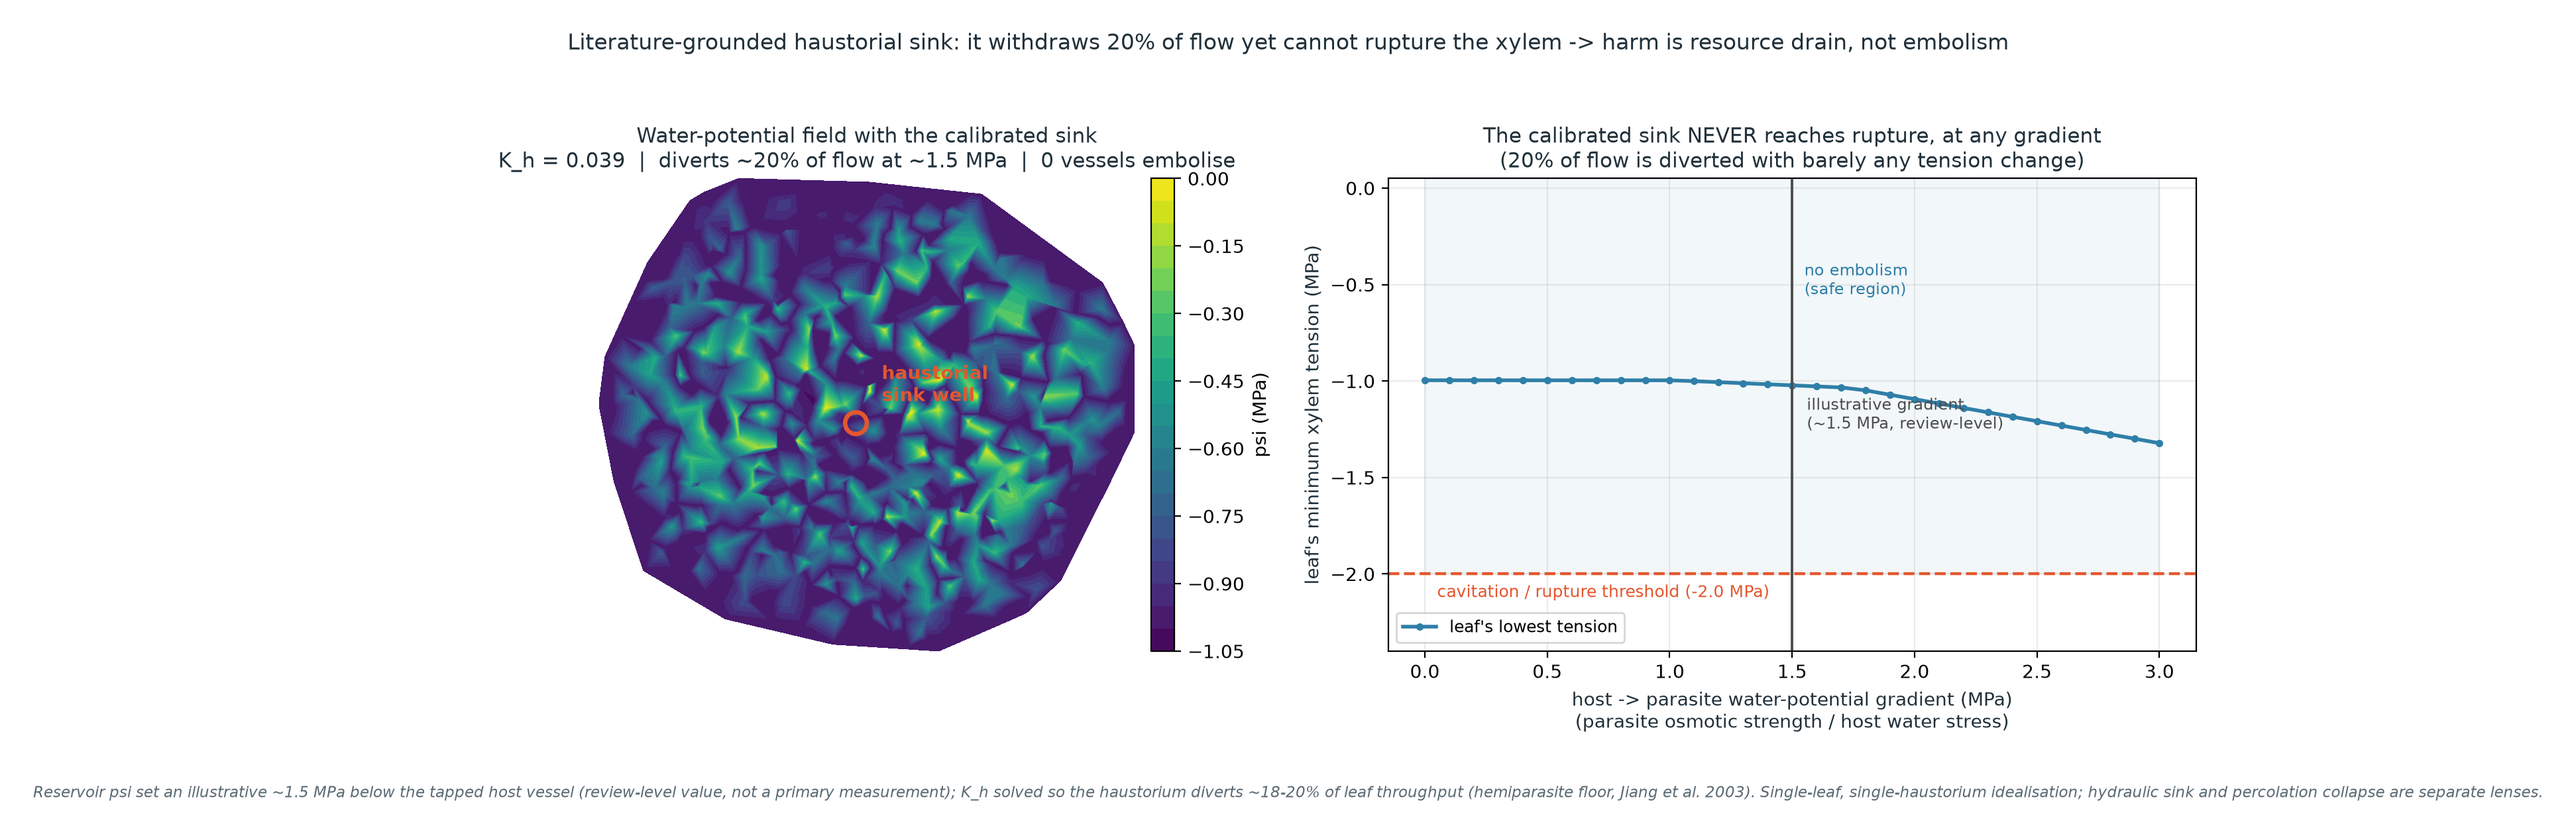
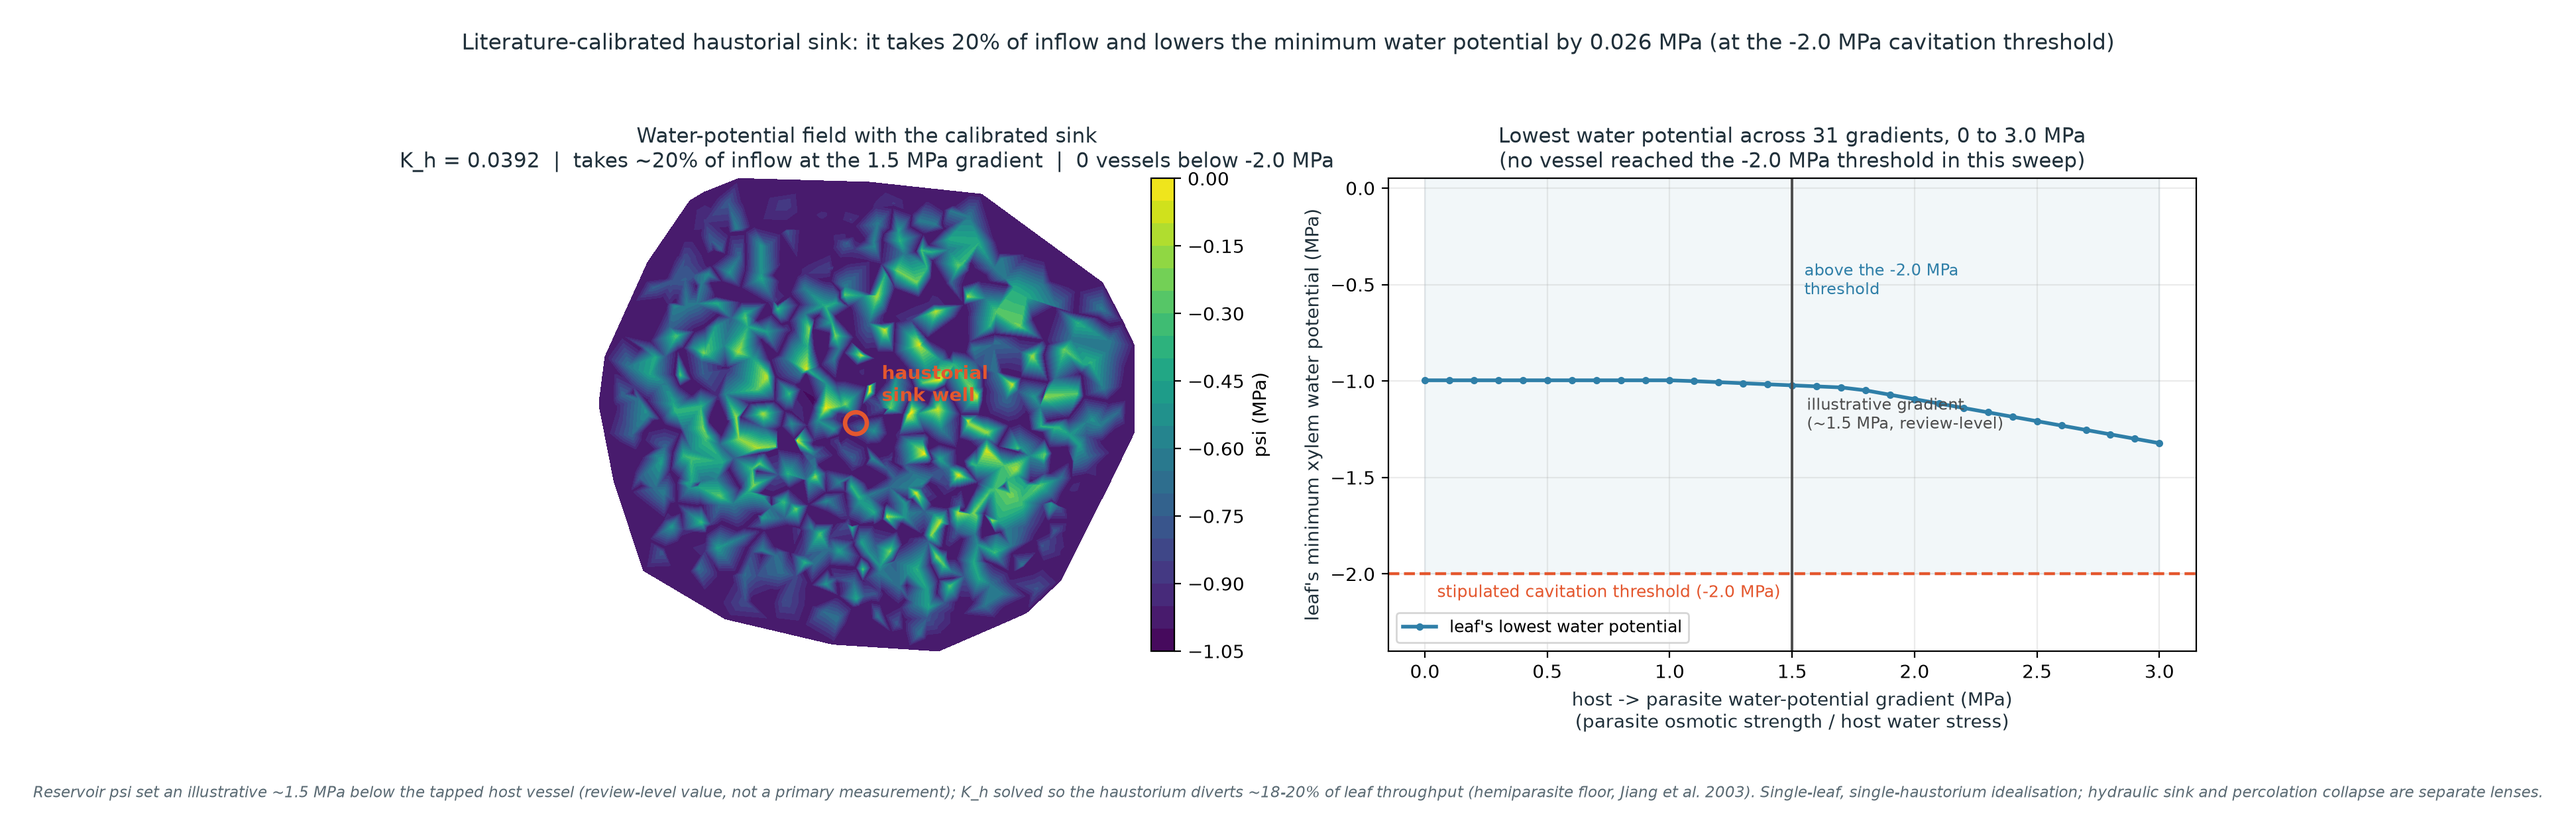
Make the sink figure conditional on the -2.0 MPa threshold; add the hero degree curve

diff --git a/scripts/make_sink_demo.py b/scripts/make_sink_demo.py
@@ -166,31 +166,32 @@ def main():
                 fontsize=10, fontweight="bold")
     a0.set_aspect("equal"); a0.axis("off")
     a0.set_title("Water-potential field with the calibrated sink\n"
-                 "K_h = %.3f  |  diverts ~20%% of flow at ~1.5 MPa  |  0 vessels embolise"
-                 % k_h, fontsize=11, color=INK)
+                 "K_h = %.4f  |  takes ~20%% of inflow at the 1.5 MPa gradient  |  "
+                 "0 vessels below -2.0 MPa" % k_h, fontsize=11, color=INK)
     cb = fig.colorbar(tcf, ax=a0, fraction=0.046, pad=0.02); cb.set_label("psi (MPa)")
 
-    a1.plot(grads, min_psi, "-o", ms=3, color=BLU, lw=2, label="leaf's lowest tension")
+    a1.plot(grads, min_psi, "-o", ms=3, color=BLU, lw=2, label="leaf's lowest water potential")
     a1.axhline(config.PSI_CAVITATION, color=ACC, ls="--", lw=1.6)
-    a1.text(0.05, config.PSI_CAVITATION - 0.12, "cavitation / rupture threshold (-2.0 MPa)",
+    a1.text(0.05, config.PSI_CAVITATION - 0.12, "stipulated cavitation threshold (-2.0 MPa)",
             color=ACC, fontsize=9)
     a1.axvline(GRADIENT_MPA, color="0.3", ls="-", lw=1.4)
     a1.text(GRADIENT_MPA + 0.06, min_psi[0] - 0.25,
             "illustrative gradient\n(~1.5 MPa, review-level)", fontsize=8.5, color="0.3")
     a1.fill_between(grads, config.PSI_CAVITATION, 0.05, color=BLU, alpha=0.06)
-    a1.text(1.55, -0.55, "no embolism\n(safe region)", fontsize=8.5, color=BLU)
+    a1.text(1.55, -0.55, "above the -2.0 MPa\nthreshold", fontsize=8.5, color=BLU)
     a1.set_ylim(config.PSI_CAVITATION - 0.4, 0.05)
     a1.set_xlabel("host -> parasite water-potential gradient (MPa)\n"
                   "(parasite osmotic strength / host water stress)", color=INK)
-    a1.set_ylabel("leaf's minimum xylem tension (MPa)", color=INK)
-    a1.set_title("The calibrated sink NEVER reaches rupture, at any gradient\n"
-                 "(20% of flow is diverted with barely any tension change)",
+    a1.set_ylabel("leaf's minimum xylem water potential (MPa)", color=INK)
+    a1.set_title("Lowest water potential across %d gradients, 0 to %.1f MPa\n"
+                 "(no vessel reached the -2.0 MPa threshold in this sweep)" % (len(grads), grads[-1]),
                  fontsize=11, color=INK)
     a1.legend(loc="lower left", fontsize=9); a1.grid(alpha=0.25)
 
-    fig.suptitle("Literature-grounded haustorial sink: it withdraws 20% of flow yet "
-                 "cannot rupture the xylem -> harm is resource drain, not embolism",
-                 fontsize=12, color=INK, y=1.0)
+    i_lit = int(np.argmin(np.abs(grads - GRADIENT_MPA)))
+    fig.suptitle("Literature-calibrated haustorial sink: it takes 20%% of inflow and lowers the "
+                 "minimum water potential by %.3f MPa (at the -2.0 MPa cavitation threshold)"
+                 % (min_psi[0] - min_psi[i_lit]), fontsize=12, color=INK, y=1.0)
     fig.text(0.5, 0.005,
              "Reservoir psi set an illustrative ~1.5 MPa below the tapped host vessel "
              "(review-level value, not a primary measurement); K_h solved so the haustorium "
